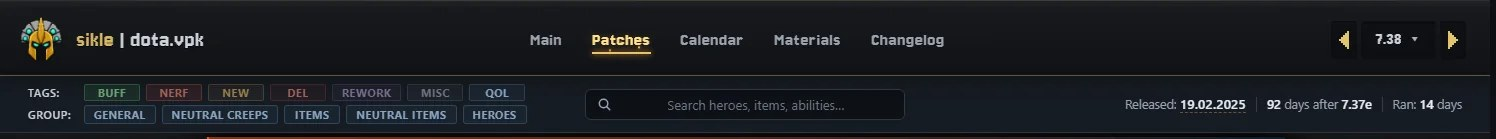
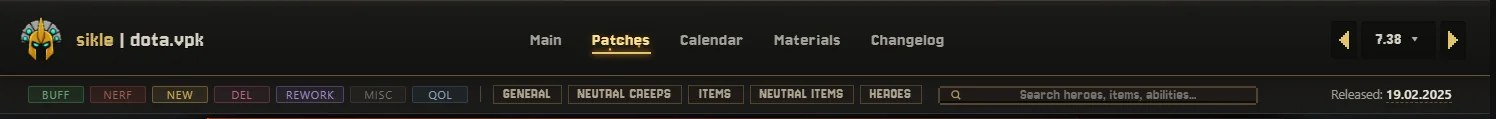
feat: olive/brick heatmap with a clear middle; patch-page search as tall as the tag chips; readable cover font
Heatmap: better ranks tint olive, worse brick (green/red pulled toward the site gold),
the middle 20% of ranks stays uncoloured, alpha grows to 0.32 at the ends.
Patch toolbar search: 19px like the chips. Telegraph cover subtitle in Rubik.

diff --git a/src/scripts.js b/src/scripts.js
@@ -2960,11 +2960,13 @@ function ecPinnableTip(tip, show, hide, sel) {
       cells.forEach(c => {
         let t = rankMap.get(c.v) / last;   // [0, 1] by unique-value rank
         if (direction === 'lower') t = 1 - t;
-        // 0 → red, 60 → amber, 120 → green. Keep saturation + alpha
-        // moderate so cross-hover darkening still reads on top.
-        const hue = Math.round(t * 120);
-        c.td.style.backgroundColor =
-          `hsla(${hue}, 60%, 50%, 0.22)`;
+        // Olive (better) ↔ brick (worse), both pulled toward yellow so they sit with the
+        // site's gold; the middle 20 % of ranks stays uncoloured and the tint grows toward
+        // the ends (max alpha 0.32). The old red→amber→green put a yellow band mid-table.
+        const d = t - 0.5;
+        const alpha = (Math.max(0, Math.abs(d) - 0.1) / 0.4 * 0.32).toFixed(3);
+        c.td.style.backgroundColor = alpha === '0.000' ? ''
+          : (d > 0 ? `rgba(150, 170, 70, ${alpha})` : `rgba(190, 85, 55, ${alpha})`);
       });
     });
   }

diff --git a/styles.css b/styles.css
@@ -10685,3 +10685,15 @@ img[src*="gothic/atk_"], img[src*="gothic/icon_talents"] { image-rendering: pixe
 @media (max-width: 1760px) { .toolbar-patch-info .ti-after { display: none; } }
 @media (max-width: 1560px) { .toolbar-patch-info .ti-live { display: none; } }
 @media (max-width: 1400px) { .toolbar-patch-info { display: none; } }
+/* Patch-page search: the same height as the tag / group chips beside it (19px) so the toolbar
+   reads as one row of equal pieces (it was a 35px field towering over the chips). */
+.toolbar .search-box input {
+  height: 19px;
+  padding-top: 0;
+  padding-bottom: 0;
+  font-size: 15px;
+  line-height: 15px;
+  background-size: 12px 12px;
+  background-position: 10px center;
+  box-shadow: inset 0 -2px 0 var(--px-press);
+}

diff --git a/tools/telegraph_post/build_post.py b/tools/telegraph_post/build_post.py
@@ -99,8 +99,11 @@ POST = [
             "+2 дальности за каждую рыбу), Dark Willow (+20% регенерации), в Hero Lab — Magnus, "
             "Primal Beast, Wraith King, Death Prophet. Razor теперь даёт +1% скорости за уровень, "
             "а не +1 единицу, а Horsepower Кентавра не складывается с сапогами.",
+            "<b>Heatmap</b> в оливково-кирпичных тонах: лучшее — оливковое, худшее — кирпичное, "
+            "середина без цвета. Зелёный и красный сдвинуты к жёлтому, чтобы жить рядом с золотом сайта.",
             "<b>Terrain:</b> стрелки у номера патча переходят на соседнюю карту (7.41 ↔ 7.40).",
             "Описания над таблицами убраны: страницы открываются сразу с фильтров."]),
+    ("img", ("2026-09-25_heatmap.webp", "Heatmap на Mana Items")),
     ("img", ("2026-09-25_per_int.webp", "Per Int на Mana Items")),
     ("img", ("2026-09-25_hl_diff.webp", "Difference в Hero Lab")),
 
@@ -151,19 +154,19 @@ def _prepare_images():
 
 
 COVER_HTML = """<!doctype html><html><head>
-<link href="https://fonts.googleapis.com/css2?family=Jersey+10&family=Jersey+25&family=Tiny5&display=block" rel="stylesheet">
+<link href="https://fonts.googleapis.com/css2?family=Jersey+10&family=Jersey+25&family=Rubik:wght@400;600&display=block" rel="stylesheet">
 <style>
 body{margin:0;width:1280px;height:640px;overflow:hidden;font-family:'Jersey 10',monospace;
  background:radial-gradient(ellipse 70% 90% at 25% 30%,#2a2118 0%,#12100d 60%,#0b0a09 100%);color:#e8dcc0}
 .helm{position:absolute;left:84px;top:150px;width:192px;height:192px;image-rendering:pixelated}
 .t{position:absolute;left:320px;top:132px;font-family:'Jersey 25';font-size:112px;color:#e3c46a;letter-spacing:2px;
  text-shadow:0 0 18px rgba(255,150,40,.35)}
-.s{position:absolute;left:326px;top:258px;font-family:'Tiny5';font-size:50px;color:#d6cbb5;letter-spacing:1px;white-space:nowrap}
+.s{position:absolute;left:326px;top:258px;font-family:'Rubik';font-weight:600;font-size:46px;color:#d6cbb5;letter-spacing:1px;white-space:nowrap}
 .bar{position:absolute;left:326px;top:346px;width:420px;height:4px;background:#e3c46a;box-shadow:0 0 10px #ff9a2a}
 .e{position:absolute;width:5px;height:5px;background:#ffcf6a;box-shadow:0 0 6px #ff8a1a}
 .shot{position:absolute;right:-40px;bottom:-30px;width:640px;border:2px solid rgba(227,196,106,.45);
  box-shadow:0 10px 40px rgba(0,0,0,.7);transform:rotate(-4deg)}
-.u{position:absolute;left:326px;top:384px;font-family:'Tiny5';font-size:30px;color:#9b917f}
+.u{position:absolute;left:326px;top:384px;font-family:'Rubik';font-weight:400;font-size:28px;color:#9b917f}
 </style></head><body>
 <img class="helm" src="http://localhost:8799/icons/ui/gothic/icon_helm.png">
 <div class="t">SLOPPY</div><div class="s">__SUB__</div><div class="bar"></div>

diff --git a/tools/changelog_shots.py b/tools/changelog_shots.py
@@ -51,6 +51,7 @@ SHOTS = {
     "2026-09-25_weights_on.webp": ("heroes_dyn.html", None, [".toolbar-panel", "table.heroes-dyn-table"], ["#dyn-weights-btn"], 330, {"width": 1500}),
     "2026-09-25_aoe_talent.webp": ("aoe_increase.html", None, [".toolbar-panel"], ['[data-aoe-upgrade="talent"]'], 120, {"width": 1400}),
     "2026-09-25_innates.webp": ("hero_lab.html", None, [".hero-lab"], [], 420, {"width": 1600}),
+    "2026-09-25_heatmap.webp": ("mana_items.html", None, ["table.mr-table"], [], 330, {"width": 1500}),
     "2026-09-25_menu.webp": ("items_dyn.html", None, [".toolbar-panel", ".hd-dd-menu"], [".hd-dd-btn"], 330, {"width": 1400}),
     "2026-09-25_tags.webp": ("patches/7.38.html", None, [".legend-stack"], ['.legend-tags .filter-btn[data-filter="nerf"]', ".cat-filter-btn >> nth=2"], 60, {"width": 1600}),
     "2026-09-25_terrain_bar.webp": ("terrain_741.html", None, [".tc-controls-bar", ".terrain-subpatch-nav"], [], 90, {"width": 1400}),
